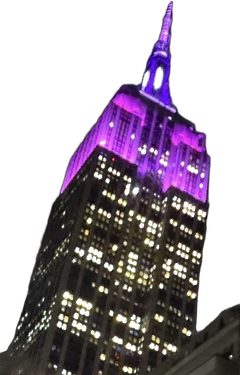
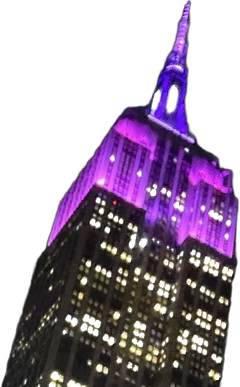
Replace Empire State sticker, move it beside section titles, enlarge Fordham sticker
- New Empire State cutout from the sharper reference photo, same
  rembg + haze-cleanup approach as before, replacing the old asset.
- Drops the 3 scattered corner placements in favor of one small
  instance next to every section h2 (Projects, Skill Set, Education,
  Certifications) — a simple inline image after the heading text
  rather than absolutely-positioned decoration, so it can't collide
  with the sticky nav the way the scattered version did.
- Education card: removes the small 34px inline Fordham logo next to
  the school name and replaces it with a large (190px desktop, 90px
  mobile) sticker filling the empty space on the card's right side,
  matching the "stamp" treatment used elsewhere on the site.

diff --git a/index.html b/index.html
@@ -8,7 +8,7 @@
 <link rel="preconnect" href="https://fonts.googleapis.com" />
 <link rel="preconnect" href="https://fonts.gstatic.com" crossorigin />
 <link href="https://fonts.googleapis.com/css2?family=Roboto:wght@400;500;600;700&family=Poppins:wght@500;600;700&family=Quicksand:wght@500;600;700&family=Space+Mono:wght@400;700&display=swap" rel="stylesheet" />
-<link rel="stylesheet" href="css/style.css?v=22" />
+<link rel="stylesheet" href="css/style.css?v=24" />
 </head>
 <body data-page="home">
 <script>try{if(localStorage.getItem('portfolio_admin_mode_v1')==='1')document.body.classList.add('admin-mode');}catch(e){}</script>
@@ -59,11 +59,10 @@
 </header>
 
 <section id="projects">
-  <img class="scatter-sticker scatter-sticker-1" src="assets/empire-state-sticker.png" alt="" aria-hidden="true" />
   <div class="wrap">
     <div class="section-head reveal">
       <div class="eyebrow">Selected Work</div>
-      <h2>Projects</h2>
+      <h2>Projects <img class="title-sticker" src="assets/empire-state-sticker.png" alt="" aria-hidden="true" /></h2>
       <p>AI-prototyped products, shipped end to end — from PRD to working demo.</p>
     </div>
 
@@ -72,11 +71,10 @@
 </section>
 
 <section id="skills">
-  <img class="scatter-sticker scatter-sticker-2" src="assets/empire-state-sticker.png" alt="" aria-hidden="true" />
   <div class="wrap">
     <div class="section-head reveal">
       <div class="eyebrow">Capabilities</div>
-      <h2>Skill Set</h2>
+      <h2>Skill Set <img class="title-sticker" src="assets/empire-state-sticker.png" alt="" aria-hidden="true" /></h2>
     </div>
     <div class="skill-groups reveal-stagger">
       <div class="skill-card">
@@ -135,13 +133,11 @@
   <div class="wrap">
     <div class="section-head reveal">
       <div class="eyebrow">Academic Foundation</div>
-      <h2>Education</h2>
+      <h2>Education <img class="title-sticker" src="assets/empire-state-sticker.png" alt="" aria-hidden="true" /></h2>
     </div>
     <div class="edu-card reveal">
-      <div class="edu-school-row">
-        <div class="edu-school">Fordham University</div>
-        <img class="edu-logo" src="assets/fordham-logo.png" alt="Fordham University" />
-      </div>
+      <img class="edu-fordham-sticker" src="assets/fordham-logo.png" alt="Fordham University" aria-hidden="true" />
+      <div class="edu-school">Fordham University</div>
       <div class="edu-degree">B.S. in Global Business in Digital Media &amp; Technology</div>
       <div class="edu-meta">
         <span><strong>New York, NY</strong></span>
@@ -158,11 +154,10 @@
 </section>
 
 <section id="certifications">
-  <img class="scatter-sticker scatter-sticker-3" src="assets/empire-state-sticker.png" alt="" aria-hidden="true" />
   <div class="wrap">
     <div class="section-head reveal">
       <div class="eyebrow">Continued Learning</div>
-      <h2>Certifications</h2>
+      <h2>Certifications <img class="title-sticker" src="assets/empire-state-sticker.png" alt="" aria-hidden="true" /></h2>
     </div>
     <div class="cert-grid reveal-stagger">
       <div class="cert-card">

diff --git a/css/style.css b/css/style.css
@@ -178,28 +178,23 @@ img { max-width: 100%; display: block; }
 }
 
 /* ===== Sections / reveal motion ===== */
-section { padding: 96px 0; position: relative; }
+section { padding: 96px 0; }
 section:first-of-type { padding-top: 64px; }
 
-/* Empire State sticker — symbolic of hope, scattered sparingly (2-3
-   appearances) as the page scrolls, never over-explained or overused. */
-.scatter-sticker {
-  position: absolute;
-  width: 54px;
+/* Empire State sticker — symbolic of hope — sits beside every section title. */
+.title-sticker {
+  display: inline-block;
+  width: 34px;
   height: auto;
+  vertical-align: middle;
+  margin-left: 6px;
+  transform: rotate(-8deg) translateY(-4px);
+  filter: drop-shadow(0 4px 10px rgba(0, 0, 0, 0.5));
   pointer-events: none;
-  filter: drop-shadow(0 8px 16px rgba(0, 0, 0, 0.5));
-  opacity: 0.85;
-  z-index: 1;
 }
-/* Bottom-anchored (not top) so the sticky nav never covers them, including
-   when the quick-jump nav scrolls a section's top edge right up to it. */
-.scatter-sticker-1 { bottom: 20px; right: 24px; transform: rotate(-9deg); }
-.scatter-sticker-2 { bottom: 20px; left: 24px; transform: rotate(7deg); }
-.scatter-sticker-3 { bottom: 20px; right: 28px; transform: rotate(-6deg); }
 
 @media (max-width: 700px) {
-  .scatter-sticker { width: 38px; }
+  .title-sticker { width: 26px; }
 }
 
 .reveal {
@@ -627,6 +622,7 @@ section:first-of-type { padding-top: 64px; }
 
 /* ===== Education ===== */
 .edu-card {
+  position: relative;
   background: var(--surface);
   border: 1px solid var(--border);
   border-radius: var(--radius);
@@ -634,11 +630,26 @@ section:first-of-type { padding-top: 64px; }
   display: flex;
   flex-direction: column;
   gap: 6px;
+  overflow: hidden;
 }
-.edu-school-row { display: flex; align-items: center; gap: 12px; }
 .edu-card .edu-school { font-size: 1.3rem; font-weight: 700; }
-.edu-logo { width: 34px; height: auto; flex: none; }
 .edu-card .edu-degree { color: var(--text-dim); font-size: 0.98rem; margin-top: 4px; }
+
+.edu-fordham-sticker {
+  position: absolute;
+  right: 24px;
+  top: 50%;
+  transform: translateY(-50%) rotate(8deg);
+  width: 190px;
+  height: auto;
+  opacity: 0.95;
+  filter: drop-shadow(0 12px 24px rgba(0, 0, 0, 0.45));
+  pointer-events: none;
+}
+
+@media (max-width: 700px) {
+  .edu-fordham-sticker { width: 90px; right: 12px; top: 20px; transform: rotate(8deg); opacity: 0.4; }
+}
 .edu-meta {
   display: flex;
   flex-wrap: wrap;

diff --git a/experience.html b/experience.html
@@ -8,7 +8,7 @@
 <link rel="preconnect" href="https://fonts.googleapis.com" />
 <link rel="preconnect" href="https://fonts.gstatic.com" crossorigin />
 <link href="https://fonts.googleapis.com/css2?family=Roboto:wght@400;500;600;700&family=Poppins:wght@500;600;700&family=Quicksand:wght@500;600;700&family=Space+Mono:wght@400;700&display=swap" rel="stylesheet" />
-<link rel="stylesheet" href="css/style.css?v=22" />
+<link rel="stylesheet" href="css/style.css?v=24" />
 </head>
 <body data-page="experience">
 <script>try{if(localStorage.getItem('portfolio_admin_mode_v1')==='1')document.body.classList.add('admin-mode');}catch(e){}</script>
